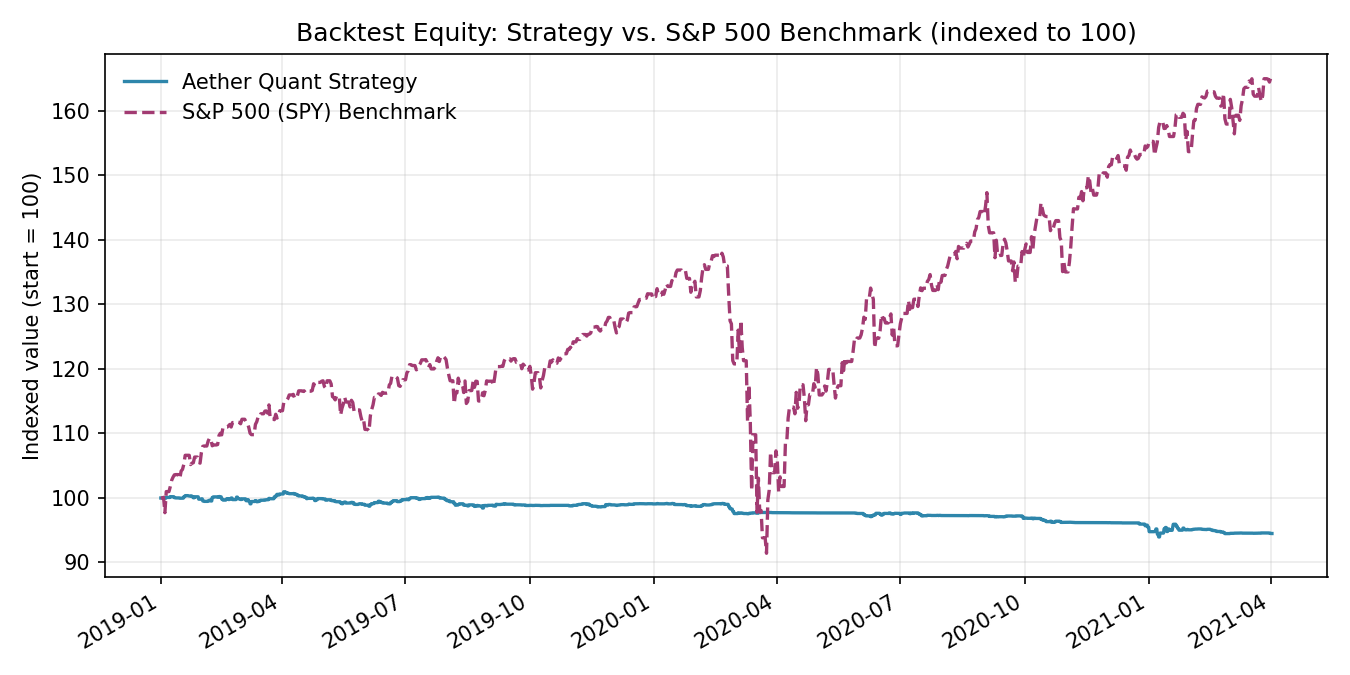
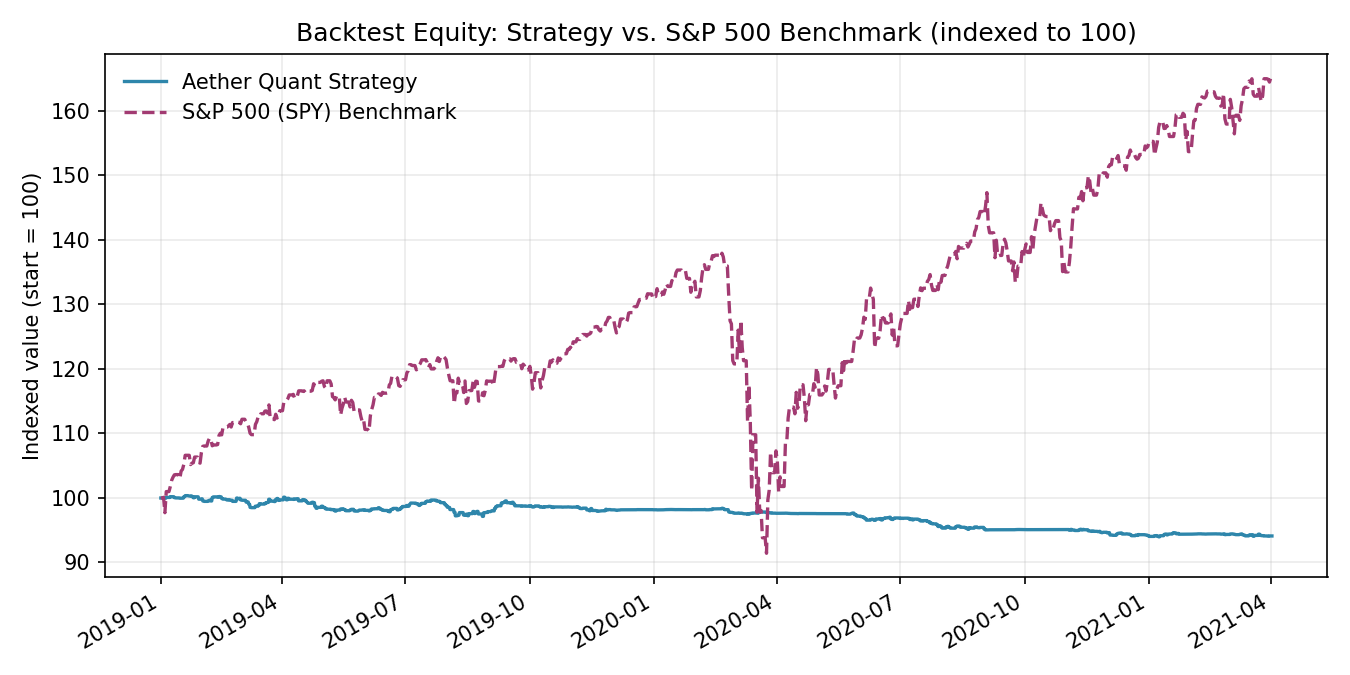
V5.3.5.2 lean backtest, now set for continuation work and an endles loop found in backtest log eill be investigated later

Changed region(s): [[0.5911, 0.7467, 0.9644, 0.8089], [0.1556, 0.7156, 0.56, 0.7778]]

diff --git a/README.md b/README.md
@@ -478,13 +478,13 @@ and how it's wired in, this table is the index.
 | Metric | Value |
 |---|---|
 | Backtest window | 2019-01-01 to 2021-04-02 |
-| Sharpe Ratio | -1.798 |
-| Net Profit | -5.507% |
-| Compounding Annual Return | -2.484% |
-| Drawdown | 6.900% |
-| Total Orders | 695 |
-| Win Rate | 37% |
-| Last updated | 2026-08-17 18:04 UTC (auto-generated by `aq backtest`) |
+| Sharpe Ratio | -1.832 |
+| Net Profit | -5.888% |
+| Compounding Annual Return | -2.659% |
+| Drawdown | 6.400% |
+| Total Orders | 462 |
+| Win Rate | 42% |
+| Last updated | 2026-08-19 12:18 UTC (auto-generated by `aq backtest`) |
 <!-- AQ:BACKTEST_END -->
 
 <details>
@@ -493,33 +493,33 @@ and how it's wired in, this table is the index.
 <!-- AQ:BACKTEST_FULL_STATS_START -->
 | Metric | Value |
 |---|---|
-| Total Orders | 695 |
+| Total Orders | 462 |
 | Average Win | 0.03% |
-| Average Loss | -0.05% |
-| Compounding Annual Return | -2.484% |
-| Drawdown | 6.900% |
-| Expectancy | -0.379 |
+| Average Loss | -0.07% |
+| Compounding Annual Return | -2.659% |
+| Drawdown | 6.400% |
+| Expectancy | -0.385 |
 | Start Equity | 100000.00 |
-| End Equity | 94493.32 |
-| Net Profit | -5.507% |
-| Sharpe Ratio | -1.798 |
-| Sortino Ratio | -1.854 |
+| End Equity | 94112.31 |
+| Net Profit | -5.888% |
+| Sharpe Ratio | -1.832 |
+| Sortino Ratio | -2.033 |
 | Probabilistic Sharpe Ratio | 0.000% |
-| Loss Rate | 63% |
-| Win Rate | 37% |
-| Profit-Loss Ratio | 0.67 |
-| Alpha | -0.034 |
-| Beta | 0.011 |
+| Loss Rate | 58% |
+| Win Rate | 42% |
+| Profit-Loss Ratio | 0.46 |
+| Alpha | -0.035 |
+| Beta | 0.01 |
 | Annual Standard Deviation | 0.018 |
 | Annual Variance | 0 |
-| Information Ratio | -1.034 |
+| Information Ratio | -1.039 |
 | Tracking Error | 0.201 |
-| Treynor Ratio | -3.05 |
-| Total Fees | $879.70 |
-| Estimated Strategy Capacity | $2800000.00 |
-| Lowest Capacity Asset | EURUSD 8G |
-| Portfolio Turnover | 2.23% |
-| Drawdown Recovery | 65 |
+| Treynor Ratio | -3.358 |
+| Total Fees | $596.54 |
+| Estimated Strategy Capacity | $160000000.00 |
+| Lowest Capacity Asset | BWX 2T |
+| Portfolio Turnover | 1.43% |
+| Drawdown Recovery | 10 |
 <!-- AQ:BACKTEST_FULL_STATS_END -->
 
 </details>
